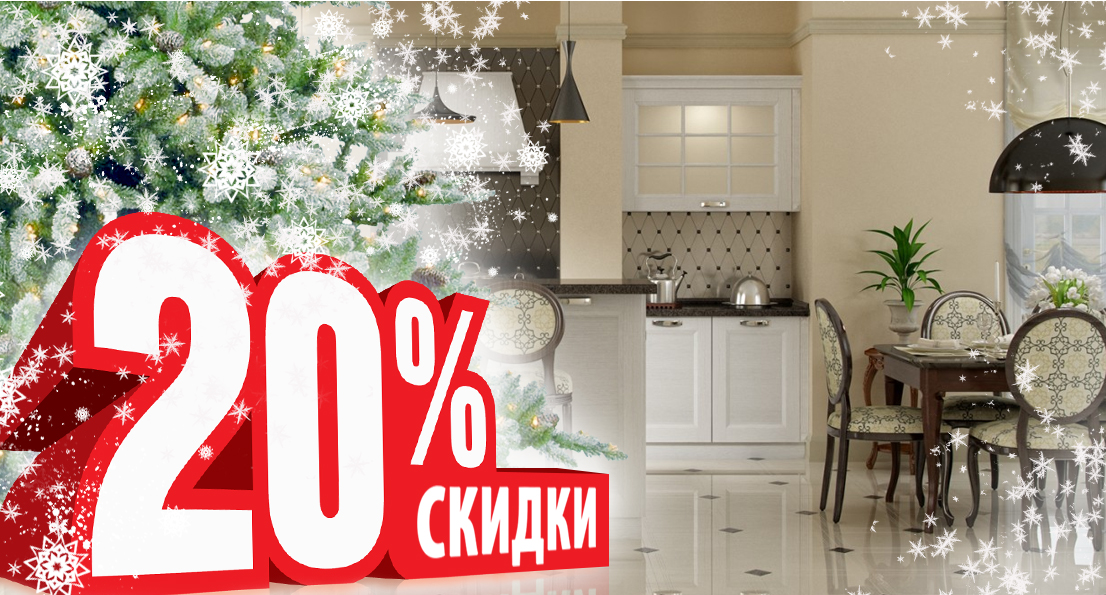
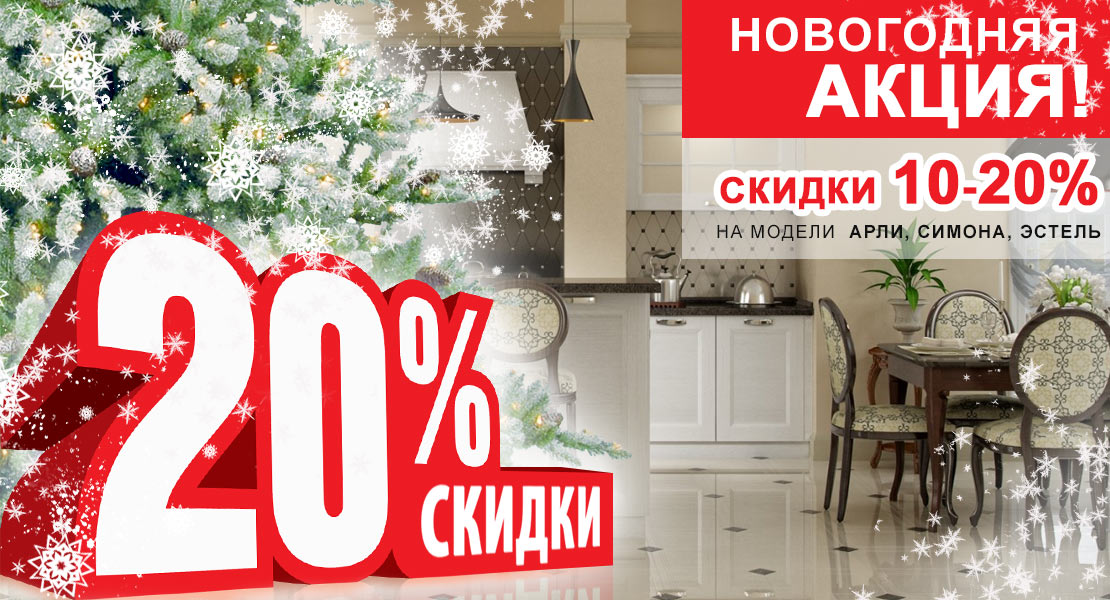
done

diff --git a/brands.html b/brands.html
@@ -105,7 +105,7 @@
             </div>
             <p>Группа компаний <strong>Teka</strong> является одним из ведущих производителей высококачественной встроенной кухонной техники, моек и смесителей. Производства располагаются в Европе, Америке и Азии, а сеть продаж охватывает всю планету.</p>
             <p>Опыт компании Teka насчитывает свыше 90 лет.  Компания Teka входит в десятку крупнейших производителей техники для кухни в Европе. </p>
-            <a href="http://www.teka.by/">www.teka.by</a>
+            <a href="http://www.teka.by/" rel="nofollow">www.teka.by</a>
           </article>
 
           <article>
@@ -116,7 +116,7 @@
              <p>Technistone – это плотный, твердый, непористый, как внутри, так и на поверхности, композитный материал.</p>
              <p>Technistone создан на основе исключительно твердых природных компонентов – кварца или гранита. Частицы природного камня соединены между собой при помощи уникальной технологии Bretonstone®. Материал является экологически чистым. Содержание природных компонентов составляет 90-93% в зависимости от типа материала.</p>
             <p>Разнообразие цветовой гаммы достигается добавлением цветовых пигментов, крошки стекла или зеркала. Technistone  изготавливается в виде крупногабаритных плит, имеющих глянцевую или шелковисто-матовую поверхность, или поверхность "под старину"</p>
-            <a href="http://www.technistone.com/en/home-page-2?scroll=true">www.technistone.com</a>
+            <a href="http://www.technistone.com/en/home-page-2?scroll=true" rel="nofollow">www.technistone.com</a>
           </article>
 
           <article>
@@ -124,7 +124,7 @@
               <img src="img/brand3.gif">
             </div>
             <p>Компания <strong>BLANCO</strong>, признанный лидер по производству высококачественного оборудования для кухни, была основана в 1925 году. Продукция компании широко известна благодаря превосходному качеству исполнения, инновационным материалам и совершенному дизайну. Сегодня мойки, смесители и мусорные системы BLANCO представлены в более чем 100 странах мира и являются образцом качества, функциональности, изысканного стиля и высокого профессионализма.</p>
-            <a href="http://www.blanco-germany.com/ru/ru/home.html">www.blanco-germany.com</a>
+            <a href="http://www.blanco-germany.com/ru/ru/home.html" rel="nofollow">www.blanco-germany.com</a>
           </article>
 
           <article>
@@ -134,7 +134,7 @@
             <p><strong>KESSEBÖHMER GmbH</strong>, – мирового лидера по производству аксессуаров для кухонь, ванных комнат и шкафов. Современные оборудование, для сварки и гальванопокрытия, применяемые фирмой, обеспечивают высокое качество изделий и гарантируют их многолетнюю эксплуатацию.</p>
             <p>Коллекция 2009 года содержит много инноваций, в т.ч. механизмы Soft Stop и Soft Stop plus обеспечивающие плавную доводку колонок при закрытии: а также антискользящее покрытие Anti Slip для вращающихся элементов: принципиально новый механизм для угловых тумб "REVO" "Le Mans",  "Волшебный уголок" и "Бутылочница-150" нового поколения, выкатные ёмкости для хозпринодлежностей "PORTERO". </p>
             <p>Семейное предприятие KESSEBÖHMER GmbH было основано в 1954 году, сейчас на нем занято около 1750 сотрудников. Это ведущий поставщик монтажных систем и фурнитуры для производителей кухонной мебели по всему миру.</p>
-            <a href="http://www.kesseboehmer.com/en/">www.kesseboehmer.com</a>
+            <a href="http://www.kesseboehmer.com/en/" rel="nofollow">www.kesseboehmer.com</a>
           </article>
 
           <article>
@@ -142,7 +142,7 @@
               <img src="img/brand5.png">
             </div>
             <p><strong>Blum </strong>- это международное  предприятие, специализирующееся на производстве мебельной фурнитуры. Основными направлениями производства являются подъемные механизмы, системы выдвижения и петли для мебели. Фурнитура этой компании обеспечивает комфорт на кухне на протяжении многих лет. </p>
-            <a href="http://www.blum.com/by/ru/">www.blum.com</a>
+            <a href="http://www.blum.com/by/ru/" rel="nofollow">www.blum.com</a>
           </article>
         </div>
       </section>
@@ -153,7 +153,7 @@
             <nav>
               <ul>
                 <li><a href="index.html">Главная</a></li>
-                <li><a href="catalog.html">Каталог</a></li>
+                <li><a href="kitchens.html">Каталог</a></li>
                 <li><a href="o_fabrike.html">О фабрике</a></li>         
                 <li><a href="o_salone.html">О салоне</a></li>
                 <li><a href="brands.html">Бренды</a></li>

diff --git a/css/style.css b/css/style.css
@@ -262,61 +262,6 @@ header .address p:first-child b {
 	right: 20px;
 	opacity: 1;
 }
-.carousel.slide .carousel-caption  {
-	position: absolute;
-	top: 0;
-	right: 0%;
-	left: 60%;
-	float: right;
-	font-family: MyriadBold;
-	padding: 0;
-}
-.carousel.slide .carousel-caption .caption_block {
-	position: absolute;
-	top: 0;
-	left: 0;
-	right: 0;
-	
-}
-.carousel.slide .carousel-caption .caption_up_block {
-	background-color: rgb(237,27,36);
-	text-transform: uppercase;
-	padding-top: 10px;
-}
-.caption_up_block h1 {
-	font-size: 80px;
-	font-family: MyriadSuperBold;
-	margin: 0;
-}
-.caption_up_block h2 {
-	font-size: 56px;
-	padding-right: 30px;
-	margin: 0;
-}
-.caption_down_block {
-	background-color: rgba(255,255,255,0.6);
-}
-.caption_down_block p {
-	color: rgb(16,16,16);
-	font-size: 22px;
-	font-family: MyriadLight;
-	text-transform: uppercase;
-	text-shadow: 0 0 1px #000;
-}
-.caption_down_block p b {
-	font-family: MyriadRegular;
-}
-.caption_down_block p.big_discounts {
-	font-size: 48px;
-	color: rgb(237,27,36);
-	text-shadow: -3px -3px 0 #fff, 3px -3px 0 #fff, -3px 3px 0 #fff, 3px 3px 0 #fff;
-	font-family: MyriadBold;
-}
-.caption_down_block p.big_discounts strong {
-	font-size: 1.3em;
-	font-family: MyriadSuperBold;
-}
-
 
 .well.our_advantages,
 .well.projects_done {
@@ -327,6 +272,13 @@ header .address p:first-child b {
 }
 .well.projects_done a {
 	color: rgb(72,71,67);
+	transition: all 0.3s linear;
+}
+.well.projects_done a:hover {
+	text-decoration: none;
+	color: red;
+}
+.well.projects_done a:hover h2 {
 }
 .well.our_advantages h2 {
 	color: rgb(72,71,67);
@@ -366,7 +318,7 @@ header .address p:first-child b {
 .well.our_advantages figcaption span {
 	font-size: 1.2em;
 	color: rgb(213,202,112);
-	transition: all 0.4s linear;
+	transition: all 0.3s linear;
 }
 .image_wrapper_main_page:hover + figcaption span {
 	color: red;
@@ -399,7 +351,14 @@ header .address p:first-child b {
 
 .well.main_page_brands a {
 	color: rgb(72,71,67);
+	transition: all 0.3s linear;
 }
+.well.main_page_brands a:hover {
+	text-decoration: none;
+	color: red;
+}
+
+
 
 @media screen and (max-width: 769px) {
 	.well.main_page_brands {
@@ -680,6 +639,7 @@ header .address p:first-child b {
 .aside_navigation .catalog_list .list-item.active a {
 	background-color: rgb(213,202,112);
 	font-family: MyriadBold;
+	display: inline;
 }
 .aside_navigation .btn_catalog.discounts {
 	background-color: rgb(209,39,39);
@@ -1002,7 +962,7 @@ header .address p:first-child b {
 	text-align: justify;
 }
 .brands_descr_page article {
-	margin-bottom: 40px;
+	margin-bottom: 80px;
 }
 .brands_descr_page p {
 	margin-bottom: 7px;
@@ -1017,6 +977,7 @@ header .address p:first-child b {
 	overflow: hidden;
 	margin-bottom: 20px;
 	text-align: justify;
+	float: left;
 }
 .brand_img_wrapper img {
 	width: 70%;

diff --git a/one_seat.html b/one_seat.html
@@ -97,7 +97,7 @@
           <div class="col-lg-3 col-md-3 col-sm-3 col-xs-12">
             <nav class="aside_navigation">
               <div class="catalog_list">
-                <p class="btn_catalog active"><a href="kitchens.html">Кухни</a></p>
+                <p class="btn_catalog"><a href="kitchens.html">Кухни</a></p>
               </div>
               <div class="catalog_list">
                <p class="btn_catalog">столовые группы<span class="caret_span"><img src="img/arrow.png"></span></p>
@@ -107,14 +107,14 @@
                 </div>
               </div>
               <div class="catalog_list">
-                <p class="btn_catalog">Комплектующие<span class="caret_span"><img src="img/arrow.png"></span></p>
+                <p class="btn_catalog active">Комплектующие<span class="caret_span"><img src="img/arrow.png"></span></p>
                 <div class="list_nav">
                  <p class="list-item"><a href="table_ups.html">Столешницы из постформинга</a></p>
                  <p class="list-item"><a href="table_ups.html">Столешницы из композита кварца</a></p>
                  <p class="list-item"><a href="one_seat.html">Плинтус</a></p>
                  <p class="list-item"><a href="one_seat.html">Каркас</a></p>
                  <p class="list-item"><a href="one_seat.html">Цоколь</a></p>
-                 <p class="list-item"><a href="one_seat.html">Карниз</a></p>
+                 <p class="list-item active"><a href="one_seat.html">Карниз</a></p>
                  <p class="list-item"><a href="one_seat.html">Ручки</a></p>
                  <p class="list-item"><a href="one_seat.html">Менсолодержатели</a></p>
                 </div>
@@ -174,7 +174,7 @@
             <nav>
               <ul>
                 <li><a href="index.html">Главная</a></li>
-                <li><a href="catalog.html">Каталог</a></li>
+                <li><a href="kitchens.html">Каталог</a></li>
                 <li><a href="o_fabrike.html">О фабрике</a></li>         
                 <li><a href="o_salone.html">О салоне</a></li>
                 <li><a href="brands.html">Бренды</a></li>

diff --git a/table_ups.html b/table_ups.html
@@ -96,7 +96,7 @@
           <div class="col-lg-3 col-md-3 col-sm-3 col-xs-12">
             <nav class="aside_navigation">
               <div class="catalog_list">
-                <p class="btn_catalog active"><a href="kitchens.html">Кухни</a></p>
+                <p class="btn_catalog"><a href="kitchens.html">Кухни</a></p>
               </div>
               <div class="catalog_list">
                <p class="btn_catalog">столовые группы<span class="caret_span"><img src="img/arrow.png"></span></p>
@@ -106,10 +106,10 @@
                 </div>
               </div>
               <div class="catalog_list">
-                <p class="btn_catalog">Комплектующие<span class="caret_span"><img src="img/arrow.png"></span></p>
+                <p class="btn_catalog active">Комплектующие<span class="caret_span"><img src="img/arrow.png"></span></p>
                 <div class="list_nav">
                  <p class="list-item"><a href="table_ups.html">Столешницы из постформинга</a></p>
-                 <p class="list-item"><a href="table_ups.html">Столешницы из композита кварца</a></p>
+                 <p class="list-item active"><a href="table_ups.html">Столешницы из композита кварца</a></p>
                  <p class="list-item"><a href="one_seat.html">Плинтус</a></p>
                  <p class="list-item"><a href="one_seat.html">Каркас</a></p>
                  <p class="list-item"><a href="one_seat.html">Цоколь</a></p>
@@ -204,7 +204,7 @@
             <nav>
               <ul>
                 <li><a href="index.html">Главная</a></li>
-                <li><a href="catalog.html">Каталог</a></li>
+                <li><a href="kitchens.html">Каталог</a></li>
                 <li><a href="o_fabrike.html">О фабрике</a></li>         
                 <li><a href="o_salone.html">О салоне</a></li>
                 <li><a href="brands.html">Бренды</a></li>

diff --git a/o_fabrike.html b/o_fabrike.html
@@ -99,7 +99,9 @@
 
         <div class="row">
           <article class="o_fabrike_article">
-            <div class="fabrik_img_wrapper"><img src="img/o_fabrice.jpg"></div>
+            <div class="fabrik_img_wrapper">
+              <a href="img/o_fabrice.jpg" class="fancy_picture" rel="factory" title="Sample title 1"><img src="img/o_fabrice.jpg"></a>
+            </div>
             <h1>Фабрика "Геосидеал"</h1>
             <p>Мебельная фабрика "Геосидеал" начала свою деятельность в 1991 году. Основное направление фабрики - производство кухонь высокого качества с использованием натуральной древесины в качестве фасадов и декоративных элементов. Представительства фабрики есть также в Москве, Санкт-Петербурге и Воронеже.</p>
             <p>Сегодня фабрика располагает высокотехнологичным оборудованием ведущих фирм Европы.</p>
@@ -132,7 +134,7 @@
             <nav>
               <ul>
                 <li><a href="index.html">Главная</a></li>
-                <li><a href="catalog.html">Каталог</a></li>
+                <li><a href="kitchens.html">Каталог</a></li>
                 <li><a href="o_fabrike.html">О фабрике</a></li>         
                 <li><a href="o_salone.html">О салоне</a></li>
                 <li><a href="brands.html">Бренды</a></li>

diff --git a/o_salone.html b/o_salone.html
@@ -159,7 +159,7 @@
                 <p><strong>Адрес: </strong>ТЦ "Grad", 3-й этаж, пав. 367</p>
                 <p class="links">
                   <a href="#mapmodals" data-toggle="modal" role="button">На карте</a> 
-                  <a href="img/schema.jpg" class="fancy_picture" rel="schema" title="Как  нас найти">Схема этажа</a>
+                  <a href="img/schema.jpg" class="fancy_picture" rel="schema2" title="Как  нас найти">Схема этажа</a>
                 </p>
                 <p class="time"><strong>Время работы:</strong> 10.00 - 17.00</p>
                 <p class="weekend"><strong>Выходной</strong>: понедельник</p>
@@ -181,7 +181,7 @@
             <nav>
               <ul>
                 <li><a href="index.html">Главная</a></li>
-                <li><a href="catalog.html">Каталог</a></li>
+                <li><a href="kitchens.html">Каталог</a></li>
                 <li><a href="o_fabrike.html">О фабрике</a></li>         
                 <li><a href="o_salone.html">О салоне</a></li>
                 <li><a href="brands.html">Бренды</a></li>
@@ -222,9 +222,9 @@
   <div class="modal fade" id="mapmodals">
     <div class="modal-dialog modal-lg">
       <div class="modal-content">
-        <div class="modal-header">
+       
           <button type="button" class="close" data-dismiss="modal" aria-hidden="true">&times;</button>
-        </div>
+      
         <div class="modal-body">
           <div id="map-container"></div>
         </div>

diff --git a/seats.html b/seats.html
@@ -96,13 +96,13 @@
           <div class="col-lg-3 col-md-3 col-sm-3 col-xs-12">
             <nav class="aside_navigation">
               <div class="catalog_list">
-                <p class="btn_catalog active"><a href="kitchens.html">Кухни</a></p>
+                <p class="btn_catalog"><a href="kitchens.html">Кухни</a></p>
               </div>
               <div class="catalog_list">
-               <p class="btn_catalog">столовые группы<span class="caret_span"><img src="img/arrow.png"></span></p>
+               <p class="btn_catalog active">столовые группы<span class="caret_span"><img src="img/arrow.png"></span></p>
                 <div class="list_nav">
                   <p class="list-item"><a href="tables.html">столы</a></p>
-                  <p class="list-item"><a href="seats.html">стулья</a></p>
+                  <p class="list-item active"><a href="seats.html">стулья</a></p>
                 </div>
               </div>
               <div class="catalog_list">
@@ -208,7 +208,7 @@
             <nav>
               <ul>
                 <li><a href="index.html">Главная</a></li>
-                <li><a href="catalog.html">Каталог</a></li>
+                <li><a href="kitchens.html">Каталог</a></li>
                 <li><a href="o_fabrike.html">О фабрике</a></li>         
                 <li><a href="o_salone.html">О салоне</a></li>
                 <li><a href="brands.html">Бренды</a></li>

diff --git a/index.html b/index.html
@@ -97,18 +97,6 @@
           <div class="item active">
             <a href="discounts.html">
               <img src="img/slide1.jpg" alt="slide1">
-               <div class="carousel-caption">
-                <div class="caption_block">
-                  <div class="caption_up_block text-right">
-                    <h2>Новогодняя</h2>
-                    <h1>Акция!</h1>
-                  </div>
-                  <div class="caption_down_block">
-                    <p class="big_discounts">скидки <strong>10-20%</strong></p>
-                    <p>на модели <b>арли, симона, эстель</b></p>
-                  </div>
-                </div>
-               </div>
             </a>
           </div>
          <div class="item">
@@ -218,7 +206,7 @@
             <nav>
               <ul>
                 <li><a href="index.html">Главная</a></li>
-                <li><a href="catalog.html">Каталог</a></li>
+                <li><a href="kitchens.html">Каталог</a></li>
                 <li><a href="o_fabrike.html">О фабрике</a></li>         
                 <li><a href="o_salone.html">О салоне</a></li>
                 <li><a href="brands.html">Бренды</a></li>

diff --git a/where_to_buy.html b/where_to_buy.html
@@ -125,7 +125,7 @@
                 <p><strong>Адрес: </strong>ТЦ "Grad", 3-й этаж, пав. 367</p>
                 <p class="links">
                   <a href="#mapmodals" data-toggle="modal" role="button">На карте</a> 
-                  <a href="img/schema.jpg" class="fancy_picture" rel="schema" title="Как  нас найти">Схема этажа</a>
+                  <a href="img/schema.jpg" class="fancy_picture" rel="schema_on_page" title="Как  нас найти">Схема этажа</a>
                 </p>
                 <p class="time"><strong>Время работы:</strong> 10.00 - 17.00</p>
                 <p class="weekend"><strong>Выходной</strong>: понедельник</p>
@@ -145,7 +145,7 @@
             <nav>
               <ul>
                 <li><a href="index.html">Главная</a></li>
-                <li><a href="catalog.html">Каталог</a></li>
+                <li><a href="kitchens.html">Каталог</a></li>
                 <li><a href="o_fabrike.html">О фабрике</a></li>         
                 <li><a href="o_salone.html">О салоне</a></li>
                 <li><a href="brands.html">Бренды</a></li>

diff --git a/discounts.html b/discounts.html
@@ -219,7 +219,7 @@
             <nav>
               <ul>
                 <li><a href="index.html">Главная</a></li>
-                <li><a href="catalog.html">Каталог</a></li>
+                <li><a href="kitchens.html">Каталог</a></li>
                 <li><a href="o_fabrike.html">О фабрике</a></li>         
                 <li><a href="o_salone.html">О салоне</a></li>
                 <li><a href="brands.html">Бренды</a></li>

diff --git a/kitchens.html b/kitchens.html
@@ -307,7 +307,7 @@
             <nav>
               <ul>
                 <li><a href="index.html">Главная</a></li>
-                <li><a href="catalog.html">Каталог</a></li>
+                <li><a href="kitchens.html">Каталог</a></li>
                 <li><a href="o_fabrike.html">О фабрике</a></li>         
                 <li><a href="o_salone.html">О салоне</a></li>
                 <li><a href="brands.html">Бренды</a></li>

diff --git a/one_album.html b/one_album.html
@@ -159,7 +159,7 @@
             <nav>
               <ul>
                 <li><a href="index.html">Главная</a></li>
-                <li><a href="catalog.html">Каталог</a></li>
+                <li><a href="kitchens.html">Каталог</a></li>
                 <li><a href="o_fabrike.html">О фабрике</a></li>         
                 <li><a href="o_salone.html">О салоне</a></li>
                 <li><a href="brands.html">Бренды</a></li>
